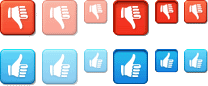
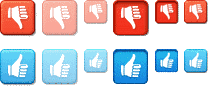
soru ve site ayarları düzenlemesi elOy resmi optimize edildi

diff --git a/theme/Simple/style.css b/theme/Simple/style.css
@@ -4,7 +4,8 @@
 body {
 	margin: 2px;
 	padding: 0;
-	background-color: #eee;
+	background:url(images/bg.png) repeat-x  top left fixed ;
+	background-color: #C1C3CC;
 }
 .Main {
 	position: absolute;

diff --git a/siteSettings2.php b/siteSettings2.php
@@ -247,7 +247,7 @@ Lesser General Public License for more details.
                         <input name="al" type="submit" id="al" value="<?php echo $metin[158]?>"/>
                       </form>
                       <h4><?php echo $metin[211]?> :</h4>
-                      <pre style="margin-left:-80px;line-height:12px;">
+                      <pre style="margin-left:-50px;line-height:12px;font-family:'Courier New', Courier, monospace">
                       eo_1okul		<?php echo getTableSize("eo_1okul"); ?> - (<?php echo $metin[212]?>)<br />
                       <strong>eo_2sinif		<?php echo getTableSize("eo_2sinif"); ?> :</strong> <?php echo yetimKayitNolar("eo_2sinif")?><br />
                       <strong>eo_3ders		<?php echo getTableSize("eo_3ders"); ?> :</strong> <?php echo yetimKayitNolar("eo_3ders")?><br />
